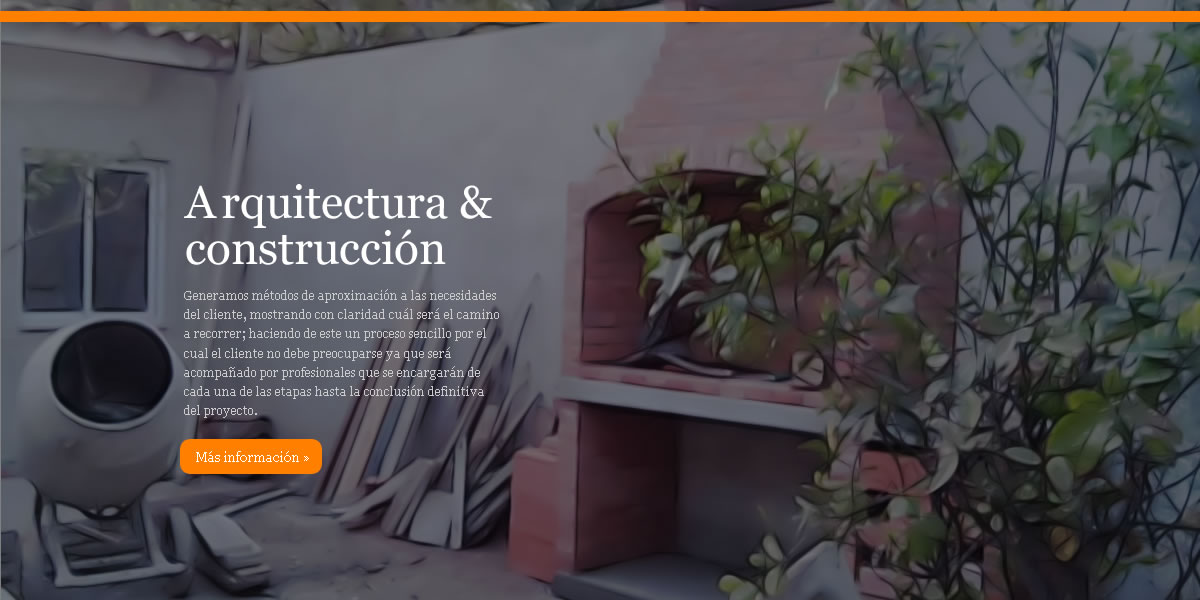
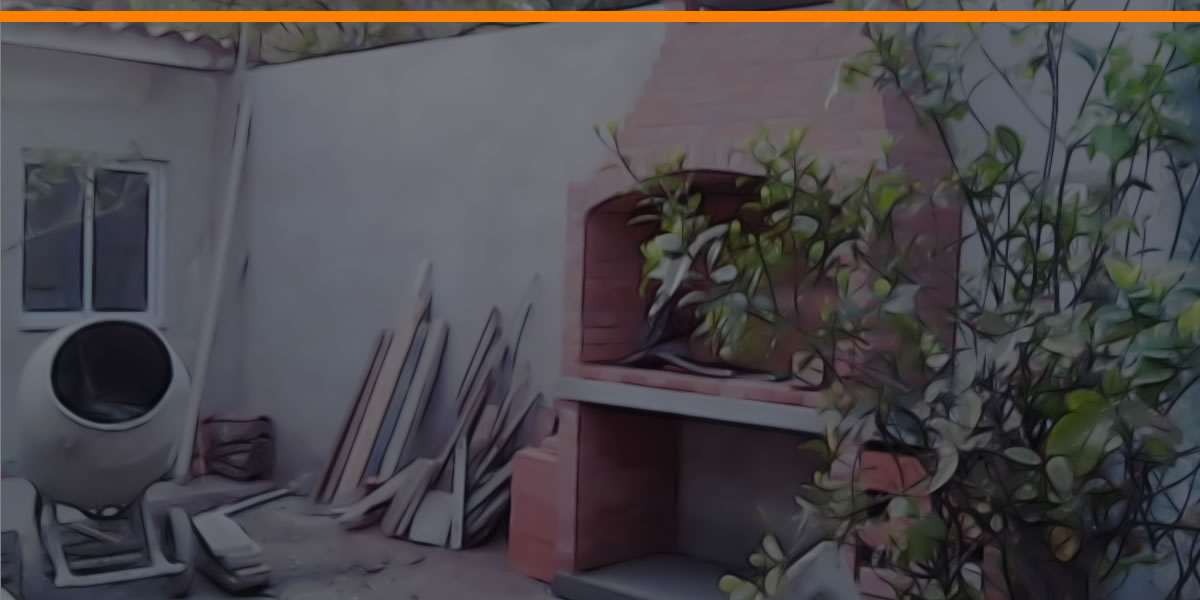
arreglos

Changed region(s): [[0.1542, 0.48, 0.4008, 0.69], [0.1542, 0.3, 0.4317, 0.45], [0.1233, 0.72, 0.2775, 0.81]]

diff --git a/public/css/style.css b/public/css/style.css
@@ -30,6 +30,7 @@ body {
 }
 
 /* Menu navbar-brand*/
+
 .navbar-custom{
 	padding-top: 1%;
 	padding-bottom: 1%;
@@ -197,6 +198,37 @@ hr{
   margin: auto;
 }
 
+.slideshow-container h1 {
+	position: absolute;
+	top: 20%;
+	left: 15%;
+	width: 100%;
+	color: white;
+	font-size: -webkit-xxx-large;
+}
+
+.text {
+	width:30%;
+	position: absolute;
+	top: 38%;
+	left: 15%;
+	color: white;
+	font-size: large;
+}
+
+#slideButton{
+	position: absolute;
+	left: 15%;
+	background-color: orange;
+	margin: 0 5px 5px 5px;
+	color: white;
+	border: 0px;
+    border-radius: 6px;
+	font-size: large;
+	
+}
+
+
 .mySlides {
     display: none;
 }
@@ -225,17 +257,6 @@ hr{
 /* On hover, add a black background color with a little bit see-through */
 .prev:hover, .next:hover {
   background-color: rgba(0,0,0,0.8);
-}
-
-/* Caption text */
-.text {
-  color: #f2f2f2;
-  font-size: 15px;
-  padding: 8px 12px;
-  position: absolute;
-  bottom: 8px;
-  width: 100%;
-  text-align: center;
 }
 
 /* Number text (1/3 etc) */
@@ -295,6 +316,11 @@ hr{
     background-color: white;
     width: 24%;
     margin: 2%;
+ }
+ 
+ #footer .flex-item {
+ 	background-color: #2e3436;
+ 	height: auto;
  }
 
 img.flex-item{
@@ -369,6 +395,10 @@ textarea {
 	
 	nav-img{
 		max-width: 25%;
+	}
+
+	.navbar-default .navbar-collapse {
+		border-color: black;
 	}
 	
 }
